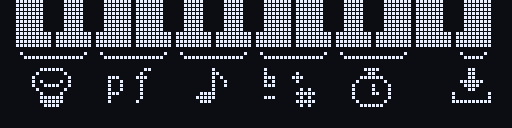
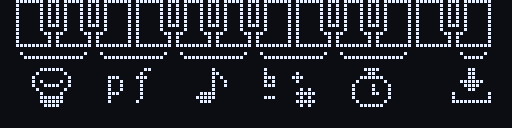
Draw keys as outlines, filled while pressed
Most of the OLED stays dark, which saves power. Black keys are small
outlines too; chord tones stay dotted, lit inside an outline or dark on a
pressed key. The pedal diagrams follow.

Claude-Session: https://claude.ai/code/session_014PS28BVHbviu2zxhTE1guH

Changed region(s): [[0.0312, 0.0, 0.9688, 0.3438]]

diff --git a/src/widgets.c b/src/widgets.c
@@ -59,17 +59,13 @@ static void white_outline(gfx_t *g, int x, int y, int h, int black_h, int key) {
     #undef IN_SHAPE
 }
 
+// Keys are outlines, filled while pressed, which keeps most of the OLED dark
 void widget_keyboard(gfx_t *g, int x, int y, int h, uint32_t pressed,
                      uint32_t marked) {
     int black_h = h * 3 / 5;
     for (int key = 0; key < 20; key++) {
-        if (WHITE_INDEX[key] < 0) {
-            continue;
-        }
-        int kx = widget_key_x(x, key), w = widget_key_width(key);
-        gfx_fill(g, kx, y, w, h, true);
-        if (marked & (1u << key)) {
-            dotted(g, kx + 1, y + black_h + 1, w - 2, h - black_h - 2, false);
+        if (WHITE_INDEX[key] >= 0 && (pressed & (1u << key))) {
+            gfx_fill(g, x + WHITE_INDEX[key] * WIDGET_KEY_STEP, y, widget_key_width(key), h, true);
         }
     }
     for (int key = 0; key < 20; key++) {
@@ -77,18 +73,29 @@ void widget_keyboard(gfx_t *g, int x, int y, int h, uint32_t pressed,
             continue;
         }
         int kx = widget_key_x(x, key);
-        // Notch with a dark margin, lit inside when pressed
+        // Notch with a dark margin
         gfx_fill(g, kx - 1, y, BLACK_W + 2, black_h + 1, false);
         if (pressed & (1u << key)) {
             gfx_fill(g, kx, y, BLACK_W, black_h, true);
         } else if (marked & (1u << key)) {
             dotted(g, kx, y, BLACK_W, black_h, true);
+        } else {
+            gfx_fill(g, kx, y, BLACK_W, black_h, true);
+            gfx_fill(g, kx + 1, y + 1, BLACK_W - 2, black_h - 2, false);
         }
     }
-    // Pressed white keys: outline only
     for (int key = 0; key < 20; key++) {
-        if (WHITE_INDEX[key] >= 0 && (pressed & (1u << key))) {
+        if (WHITE_INDEX[key] < 0) {
+            continue;
+        }
+        int kx = widget_key_x(x, key), w = widget_key_width(key);
+        bool down = pressed & (1u << key);
+        if (!down) {
             white_outline(g, x, y, h, black_h, key);
+        }
+        // Chord tones: dots below the notches, lit or dark to contrast
+        if (marked & (1u << key)) {
+            dotted(g, kx + 1, y + black_h + 2, w - 2, h - black_h - 3, !down);
         }
     }
 }

diff --git a/test/tests.c b/test/tests.c
@@ -486,17 +486,16 @@ static void test_ui(void) {
     gfx_init(&g, 128, 32);
     int kx = (128 - WIDGET_KEYS_WIDTH) / 2;
 
-    // Keyboard on top; a pressed white key is an outline that wraps around
-    // the black key next to it
+    // Keyboard on top: keys are outlines that wrap around the black keys,
+    // filled while pressed
     ui_state_t st = { .octave = 3, .keys = 1u << 0, .root = -1 };
     ui_render(&g, &st, NULL, 0);
-    CHECK(pixel(&g, kx, 0) && pixel(&g, kx, 11));      // C outline
-    CHECK(!pixel(&g, kx + 3, 9));                       // C inside
-    CHECK(pixel(&g, kx + 12, 9));                       // D, not pressed
+    CHECK(pixel(&g, kx + 3, 9));                        // C, pressed
+    CHECK(pixel(&g, kx + 10, 9) && !pixel(&g, kx + 13, 9));  // D outline
     int notch = widget_key_x(kx, 1);                    // Db
-    CHECK(pixel(&g, notch - 2, 3));                     // outline beside it
-    CHECK(pixel(&g, notch - 1, 8));                     // and below it
+    CHECK(pixel(&g, notch, 3) && !pixel(&g, notch + 1, 3));  // its outline
     CHECK(!pixel(&g, notch - 1, 3));                    // margin stays dark
+    CHECK(pixel(&g, notch + 4, 3) && pixel(&g, notch + 2, 8));  // D wraps it
 
     // Chord mode: chord line and octave line under the keyboard
     st = (ui_state_t){ .octave = 3, .chord_mode = true, .chord = 2, .root = 0,

diff --git a/src/widgets.h b/src/widgets.h
@@ -5,8 +5,8 @@
 #include "gfx.h"
 
 // Keyboard strip of the 20 pedals: 12 white keys WIDGET_KEY_STEP wide, black
-// keys as notches over the gaps. Pressed keys are drawn inverted, marked
-// keys (e.g. chord tones) with a dotted fill.
+// keys as notches over the gaps. Keys are outlines, filled while pressed;
+// marked keys (e.g. chord tones) are dotted.
 #define WIDGET_KEY_STEP 10
 #define WIDGET_KEYS_WIDTH (12 * WIDGET_KEY_STEP)
 

diff --git a/docs/playing.md b/docs/playing.md
@@ -1,6 +1,6 @@
 # Playing
 
-The screen shows the 20 pedals as a keyboard, with held pedals hollow. When
+The screen shows the 20 pedals as a keyboard, with held pedals filled. When
 holding something for a second triggers an action, a line runs round the
 edge of the screen; the action happens when it closes. Without playing, the
 screen dims after a minute and turns off after five (see `display.dim_s` and
